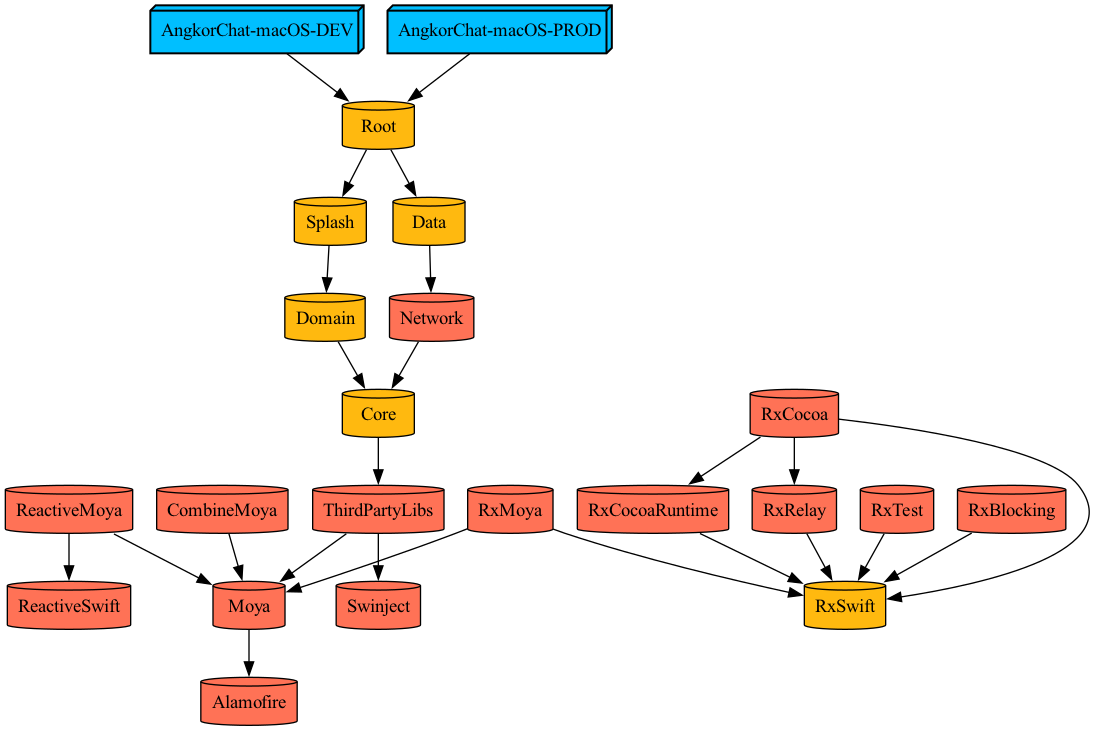
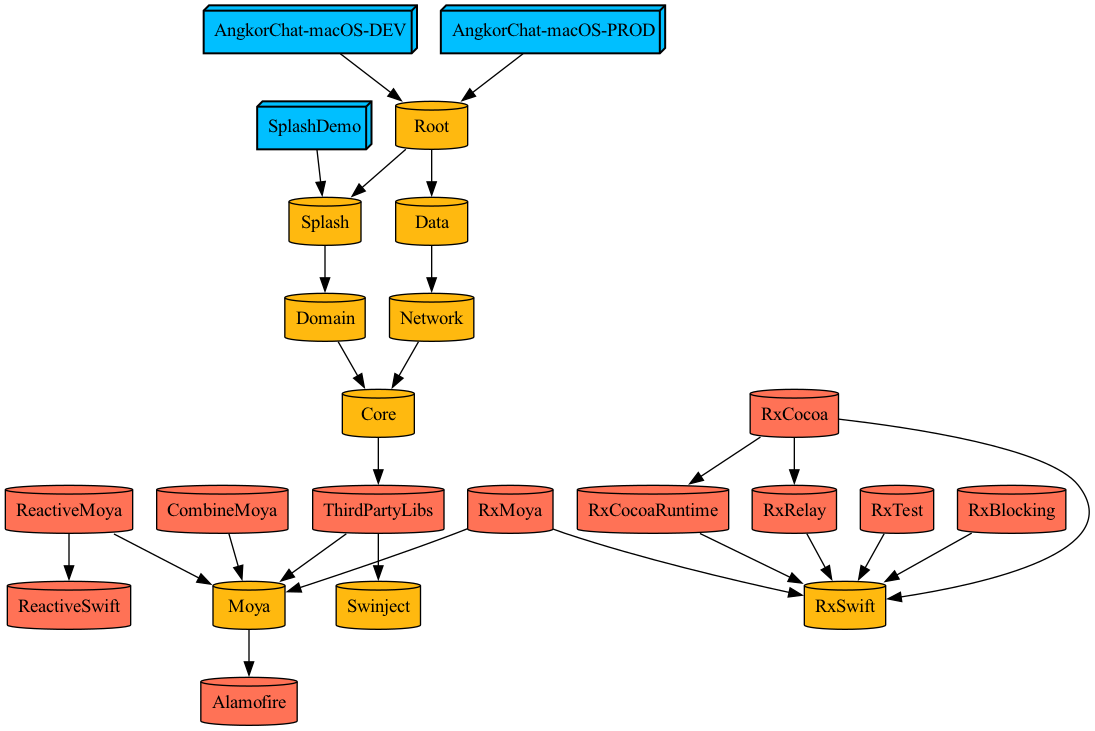
refactor: 프로젝트 스킴, 구조 변경

diff --git a/Tuist/ProjectDescriptionHelpers/Project+Templates.swift b/Tuist/ProjectDescriptionHelpers/Project+Templates.swift
@@ -38,7 +38,7 @@ public extension Project {
     ) -> Project {
         
         var projectTargets: [Target] = []
-        let configurationName: ConfigurationName = "DEV"
+        let configurationName: ConfigurationName = "Debug"
         let baseSettings: SettingsDictionary = .baseSettings
         let configuration: [Configuration] = XCConfig.projectConfiguration(name: name, destination: destinations)
         let bundleIDPrefix: String = Configs.bundleIDPrefix
@@ -109,6 +109,12 @@ public extension Project {
             )
         }
         
+        var schemes: [Scheme] = []
+        if targets.contains(.demo) || name.contains("Debug") {
+            schemes.append(Scheme.makeDemoScheme(configs: "Debug", name: name))
+        } else {
+            schemes.append(Scheme.makeScheme(configs: "Release", name: name))
+        }
         
         return Project(
             name: name,
@@ -116,168 +122,7 @@ public extension Project {
             packages: packages,
             settings: .settings(configurations: configuration),
             targets: projectTargets,
-            schemes: [
-                targets.contains(.demo)
-                ? Scheme.makeDemoScheme(configs: "DEV", name: name)
-                : Scheme.makeScheme(configs: "PROD", name: name)
-            ]
+            schemes: schemes
         )
     }
 }
-
-//public extension Target {
-//    static func makeAppTargets(
-//        name: String,
-//        dependencies: [String] = [],
-//        testeDependencies: [String] = []
-//    ) -> [Target] {
-//        let appConfigurations: [Configuration] = [
-//            .debug(
-//                name: "Debug", settings: [String: SettingValue](), xcconfig: .relativeToRoot("Configurations/macOS/macOS-Application.xcconfig")
-//            ),
-//            .release(name: "Release", settings: [String: SettingValue](), xcconfig: .relativeToRoot("Configurations/macOS/macOS-Application.xcconfig"))
-//        ]
-//        
-//        let testsConfigurations: [Configuration] = [
-//            .debug(name: "Debug", settings: [String: SettingValue](), xcconfig: .relativeToRoot("Configurations/macOS/macOS-Base.xcconfig")),
-//            .debug(name: "Release", settings: [String: SettingValue](), xcconfig: .relativeToRoot("Configurations/macOS/macOS-Base.xcconfig")),
-//        ]
-//        
-//        let targetDependencies: [TargetDependency] = dependencies.map {
-//            .target(name: $0)
-//        }
-//        
-//        return [
-//            Target.target(
-//                name: name,
-//                destinations: .macOS,
-//                product: .app,
-//                bundleId: "clamp.\(name)",
-//                deploymentTargets: .macOS(Configs.minimumTarget),
-//                infoPlist: .default,
-//                sources: ["\(Configs.appName)/Projects/AppModule/\(name)/Sources/**/*.swift"],
-//                resources: ["\(Configs.appName)/Projects/AppModule/\(name)/Resources/**/*"],
-//                dependencies: targetDependencies,
-//                settings: Settings.settings(configurations: appConfigurations)
-//            ),
-//            Target.target(
-//                name: "\(name)Tests",
-//                destinations: .macOS,
-//                product: .unitTests,
-//                bundleId: "clamp.\(name)Tests",
-//                infoPlist: .default,
-//                sources: ["\(Configs.appName)/Projects/App/\(name)/Tests/**/*.swift"],
-//                dependencies: [
-//                    .target(name: name, status: .required, condition: nil),
-//                    .xctest
-//                ] + testeDependencies.map { .target(name: $0) },
-//                settings: Settings.settings(configurations: testsConfigurations)
-//            )
-//        ]
-//    }
-//    
-//    static func makeFrameworkTargets(
-//        name: String,
-//        dependencies: [String] = [],
-//        testDependencies: [TargetDependency] = [],
-//        externalDependencies: [TargetDependency] = [],
-//        targets: Set<FeatureTarget> = Set([.framework, .tests, .examples, .testing]),
-//        moduleTarget: ModuleTarget,
-//        sdks: [String] = [],
-//        dependsOnXCTest: Bool = false,
-//        hasResource: Bool = false
-//    )  -> [Target] {
-//        // Configurations
-//        let frameworkConfigurations: [Configuration] = [
-//            .debug(name: "Debug", settings: [String: SettingValue](), xcconfig: .relativeToRoot("Configurations/macOS/macOS-Framework.xcconfig")),
-//            .debug(name: "Release", settings: [String: SettingValue](), xcconfig: .relativeToRoot("Configurations/macOS/macOS-Framework.xcconfig")),
-//        ]
-//        let testsConfigurations: [Configuration] = [
-//            .debug(name: "Debug", settings: [String: SettingValue](), xcconfig: .relativeToRoot("Configurations/macOS/macOS-Base.xcconfig")),
-//            .debug(name: "Release", settings: [String: SettingValue](), xcconfig: .relativeToRoot("Configurations/macOS/macOS-Base.xcconfig")),
-//        ]
-//        let appConfigurations: [Configuration] = [
-//            .debug(name: "Debug", settings: [String: SettingValue](), xcconfig: .relativeToRoot("Configurations/macOS/macOS-Base.xcconfig")),
-//            .debug(name: "Release", settings: [String: SettingValue](), xcconfig: .relativeToRoot("Configurations/macOS/macOS-Base.xcconfig")),
-//        ]
-//        
-//        // Target dependencies
-//        var targetDependencies: [TargetDependency] = dependencies.map {
-//            .target(name: $0)
-//        }
-//
-//        targetDependencies.append(
-//            contentsOf: sdks.map {
-//                .sdk(
-//                    name: $0,
-//                    type: .framework
-//                )
-//            })
-//        
-//        if dependsOnXCTest {
-//            targetDependencies.append(.xctest)
-//        }
-//        
-//        var sourcePathPrefix: String = ""
-//        
-//        switch moduleTarget {
-//        case .core:
-//            sourcePathPrefix = "\(Configs.appName)/Projects/Core/\(name)"
-//        case .feature:
-//            sourcePathPrefix = "\(Configs.appName)/Projects/Features/\(name)"
-//        case .architecture:
-//            sourcePathPrefix = "\(Configs.appName)/Projects/\(name)"
-//        }
-//        
-//        // Targets
-//        var projectTargets: [Target] = []
-//        if targets.contains(.framework) {
-//            projectTargets.append(
-//                Target.target(
-//                    name: name,
-//                    destinations: .macOS,
-//                    product: .staticLibrary,
-//                    bundleId: "clamp.\(name)",
-//                    deploymentTargets: .macOS(Configs.minimumTarget),
-//                    infoPlist: .default,
-//                    sources: "\(sourcePathPrefix)/Sources/**/*.swift",
-//                    resources: hasResource ? "\(sourcePathPrefix)/Resources/**/*.swift" : nil,
-//                    dependencies: targetDependencies + externalDependencies,
-//                    settings: Settings.settings(configurations: frameworkConfigurations)
-//                )
-//            )
-//        }
-//        
-//        if targets.contains(.tests) {
-//            projectTargets.append(
-//                Target.target(
-//                    name: "\(name)Tests",
-//                    destinations: .macOS,
-//                    product: .unitTests,
-//                    bundleId: "clamp.\(name)Tests",
-//                    infoPlist: .default,
-//                    sources: ["\(sourcePathPrefix)/Tests/**/*.swift"],
-//                    dependencies: targetDependencies + externalDependencies,
-//                    settings: Settings.settings(configurations: testsConfigurations)
-//                )
-//            )
-//        }
-//        if targets.contains(.examples) {
-//            projectTargets.append(
-//                Target.target(
-//                    name: "\(name)Example",
-//                    destinations: .macOS,
-//                    product: .app,
-//                    bundleId: "clamp.\(name)Example",
-//                    infoPlist: .default,
-//                    sources: ["\(sourcePathPrefix)/Examples/Sources/**/*.swift"],
-//                    resources: ["\(sourcePathPrefix)/Examples/Resources/**/*.swift"],
-//                    dependencies: [.target(name: "\(name)")],
-//                    settings: Settings.settings(configurations: appConfigurations)
-//                )
-//            )
-//        }
-//        return projectTargets
-//    }
-//    
-//}

diff --git a/Tuist/ProjectDescriptionHelpers/XCConfig.swift b/Tuist/ProjectDescriptionHelpers/XCConfig.swift
@@ -17,14 +17,14 @@ public struct XCConfig {
     }
     
     public static let framework: [Configuration] = [
-        .debug(name: "DEV", xcconfig: Path.framework),
-        .release(name: "PROD", xcconfig: Path.framework),
+        .debug(name: "Debug", xcconfig: Path.framework),
+        .release(name: "Release", xcconfig: Path.framework),
     ]
     
     public static func projectConfiguration(name: String, destination: Destinations) -> [Configuration] {
         return [
-            .debug(name: "DEV", xcconfig: Path.xcconfigs(name: name, config: "DEV", destination: destination)),
-            .release(name: "PROD", xcconfig: Path.xcconfigs(name: name, config: "PROD", destination: destination))
+            .debug(name: "Debug", xcconfig: Path.xcconfigs(name: name, config: "Debug", destination: destination)),
+            .release(name: "Release", xcconfig: Path.xcconfigs(name: name, config: "Release", destination: destination))
         ]
     }
 }

diff --git a/Tuist/ProjectDescriptionHelpers/Scheme.swift b/Tuist/ProjectDescriptionHelpers/Scheme.swift
@@ -26,6 +26,23 @@ public extension Scheme {
         )
     }
     
+    static func makeDebugScheme(configs: ConfigurationName, name: String) -> Scheme {
+        return scheme(
+            name: name,
+            shared: true,
+            buildAction: .buildAction(targets: ["\(name)"]),
+            testAction: .targets(
+                ["\(name)Tests"],
+                configuration: configs,
+                options: .options(coverage: true, codeCoverageTargets: ["\(name)"])
+            ),
+            runAction: .runAction(configuration: configs),
+            archiveAction: .archiveAction(configuration: configs),
+            profileAction: .profileAction(configuration: configs),
+            analyzeAction: .analyzeAction(configuration: configs)
+        )
+    }
+    
     static func makeDemoScheme(configs: ConfigurationName, name: String) -> Scheme {
         return scheme(
             name: "\(name)Demo" ,

diff --git a/Projects/AppModule/AngkorChat-macOS-PROD/Project.swift b/Projects/AppModule/AngkorChat-macOS-PROD/Project.swift
@@ -2,7 +2,7 @@ import ProjectDescription
 import ProjectDescriptionHelpers
 
 let project = Project.makeAppModule(
-    name: "AngkorChat-macOS-PROD",
+    name: "AngkorChat-macOS-Release",
     targets: [.app],
     destinations: .macOS,
     deploymentTargets: .macOS("15.0"),

diff --git a/Projects/AppModule/AngkorChat-macOS-DEV/Project.swift b/Projects/AppModule/AngkorChat-macOS-DEV/Project.swift
@@ -2,7 +2,7 @@ import ProjectDescription
 import ProjectDescriptionHelpers
 
 let project = Project.makeAppModule(
-    name: "AngkorChat-macOS-DEV",
+    name: "AngkorChat-macOS-Debug",
     targets: [.app],
     destinations: .macOS,
     deploymentTargets: .macOS("15.0"),

diff --git a/Projects/Shared/ThirdPartyLibs/Project.swift b/Projects/Shared/ThirdPartyLibs/Project.swift
@@ -3,7 +3,7 @@ import ProjectDescriptionHelpers
 
 let project = Project.makeAppModule(
     name: "ThirdPartyLibs",
-    targets: [.dynamicFramework],
+    targets: [.staticFramework],
     destinations: .macOS,
     deploymentTargets: .macOS("15.0"),
     packages: [],
